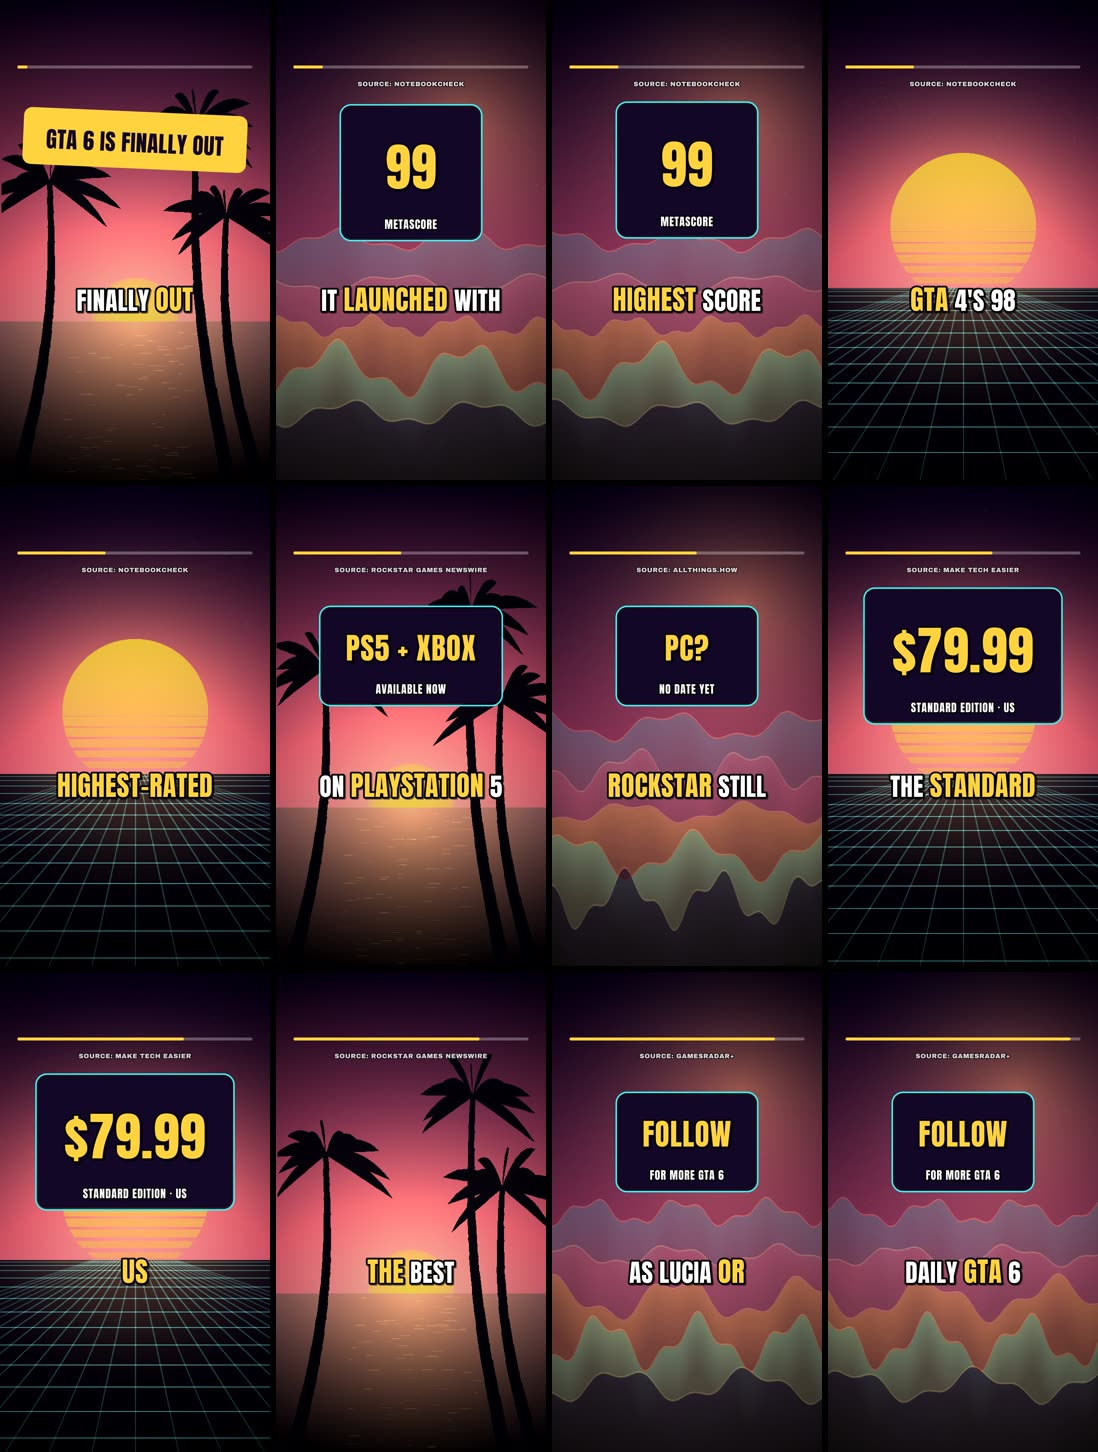
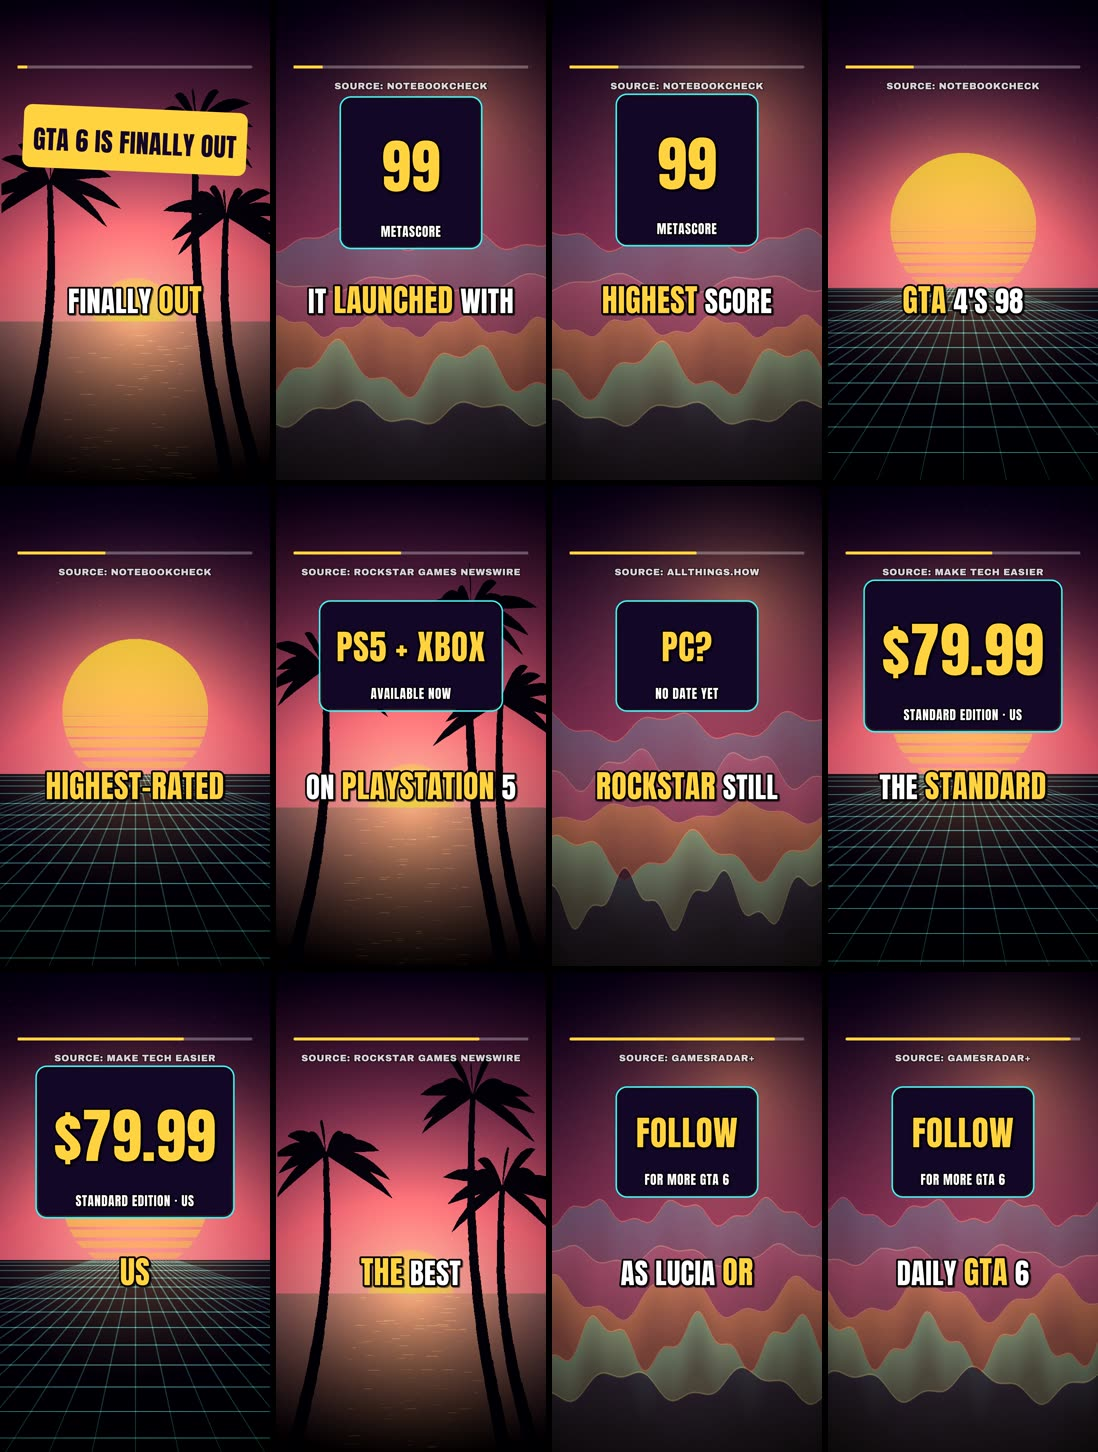
Size on-screen text with libass' real font metrics
libass scales text by the OS/2 win ascent/descent, not the hhea metrics PIL
reports, so some fonts (e.g. Bangers) rendered much smaller than intended.
Read the metrics from the font tables instead; a regression test now renders
each font through FFmpeg/libass and checks the capital height (98 ± 3 px).

Claude-Session: https://claude.ai/code/session_011Fs7o5q5jBuiNW7XePWNeT

diff --git a/src/gta6shorts/styles.py b/src/gta6shorts/styles.py
@@ -69,25 +69,49 @@ def _pil_font(path: str, size: int = 100):
     return ImageFont.truetype(path, size)
 
 
-def text_width(fonts_dir: Path, family: str, text: str, ass_size: float) -> float:
-    """Approximate rendered width in pixels of ``text`` at ASS font size ``ass_size``.
+@lru_cache(maxsize=32)
+def font_units(path: str) -> tuple[int, int]:
+    """(unitsPerEm, libass line height in font units).
 
-    libass scales fonts so that (ascent + descent) equals the ASS size, so we
-    measure with PIL at 100 px and rescale by the font's line height.
+    libass sizes text so that usWinAscent + usWinDescent (OS/2 table) equals the
+    ASS font size, which can differ a lot from the metrics PIL reports. We read
+    those values straight from the TrueType tables.
     """
-    font = _pil_font(str(font_path(fonts_dir, family)))
-    ascent, descent = font.getmetrics()
-    return font.getlength(text) * ass_size / max(1, ascent + descent)
+    import struct
+
+    data = Path(path).read_bytes()
+    count = struct.unpack(">H", data[4:6])[0]
+    tables = {}
+    for i in range(count):
+        tag, _checksum, offset, _length = struct.unpack(">4sIII", data[12 + 16 * i: 28 + 16 * i])
+        tables[tag.decode("latin-1")] = offset
+    head = tables["head"]
+    upm = struct.unpack(">H", data[head + 18: head + 20])[0]
+    if "OS/2" in tables:
+        os2 = tables["OS/2"]
+        win_ascent, win_descent = struct.unpack(">HH", data[os2 + 74: os2 + 78])
+        if win_ascent + win_descent:
+            return upm, win_ascent + win_descent
+    ascent, descent = _pil_font(path, upm).getmetrics()
+    return upm, ascent + descent
+
+
+def text_width(fonts_dir: Path, family: str, text: str, ass_size: float) -> float:
+    """Rendered width in pixels of ``text`` at ASS font size ``ass_size`` (libass scaling)."""
+    path = str(font_path(fonts_dir, family))
+    upm, line_units = font_units(path)
+    width_units = _pil_font(path, upm).getlength(text)  # at size=upm, 1 px == 1 font unit
+    return width_units * ass_size / max(1, line_units)
 
 
 @lru_cache(maxsize=64)
 def ass_size_for_cap(fonts_dir: Path, family: str, cap_px: float) -> int:
     """ASS font size that gives capital letters a height of ``cap_px`` pixels."""
-    font = _pil_font(str(font_path(fonts_dir, family)))
-    ascent, descent = font.getmetrics()
-    left, top, right, bottom = font.getbbox("H")
-    cap100 = max(1, bottom - top)  # cap height at em=100 px
-    return int(round(cap_px * (ascent + descent) / cap100))
+    path = str(font_path(fonts_dir, family))
+    upm, line_units = font_units(path)
+    left, top, right, bottom = _pil_font(path, upm).getbbox("H")
+    cap_units = max(1, bottom - top)
+    return int(round(cap_px * line_units / cap_units))
 
 
 @lru_cache(maxsize=256)

diff --git a/tests/test_media.py b/tests/test_media.py
@@ -143,3 +143,29 @@ def test_music_library_requires_licence(tmp_path):
         "  - {file: missing.mp3, title: Gone, artist: C, license: CC0, source_url: 'https://y'}\n")
     tracks = load_library(tmp_path / "licenses.yaml")
     assert [t["title"] for t in tracks] == ["Song"]
+
+
+@pytest.mark.skipif(not __import__("shutil").which("ffmpeg"), reason="ffmpeg not installed")
+@pytest.mark.parametrize("family", ["Anton", "Archivo Black", "Bebas Neue", "Luckiest Guy", "Bangers"])
+def test_libass_renders_requested_cap_height(cfg, tmp_path, family):
+    """Every font must render capitals at the size we ask for (libass uses OS/2 win metrics)."""
+    import subprocess
+
+    from PIL import Image
+
+    from gta6shorts.styles import ass_size_for_cap
+
+    size = ass_size_for_cap(cfg.fonts_dir, family, 98)
+    (tmp_path / "t.ass").write_text(
+        "[Script Info]\nPlayResX: 1080\nPlayResY: 1920\n[V4+ Styles]\n"
+        "Format: Name, Fontname, Fontsize, PrimaryColour, SecondaryColour, OutlineColour, BackColour, Bold, Italic, "
+        "Underline, StrikeOut, ScaleX, ScaleY, Spacing, Angle, BorderStyle, Outline, Shadow, Alignment, MarginL, "
+        "MarginR, MarginV, Encoding\n"
+        f"Style: T,{family},{size},&H00FFFFFF,&H00FFFFFF,&H00000000,&H00000000,0,0,0,0,100,100,0,0,1,0,0,5,0,0,0,1\n"
+        "[Events]\nFormat: Layer, Start, End, Style, Name, MarginL, MarginR, MarginV, Effect, Text\n"
+        "Dialogue: 0,0:00:00.00,0:00:01.00,T,,0,0,0,,{\\pos(540,960)}HHHH\n")
+    png = tmp_path / "f.png"
+    subprocess.run(["ffmpeg", "-y", "-loglevel", "error", "-f", "lavfi", "-i", "color=c=black:s=1080x1920:d=1",
+                    "-vf", f"ass={tmp_path / 't.ass'}:fontsdir={cfg.fonts_dir}", "-frames:v", "1", str(png)], check=True)
+    ys = np.nonzero(np.asarray(Image.open(png).convert("L")) > 128)[0]
+    assert abs((ys.max() - ys.min() + 1) - 98) <= 3

diff --git a/README.md b/README.md
@@ -61,7 +61,7 @@ Details: [docs/ARCHITECTURE.md](docs/ARCHITECTURE.md)
 | `content/facts.yaml` | verified facts with sources — the only source of claims |
 | `content/scripts/` | one YAML script per video |
 | `src/gta6shorts/` | the pipeline (Python) |
-| `tests/` | 82 automated tests |
+| `tests/` | 87 automated tests |
 | `.github/workflows/` | CI, produce, publish, stats & dashboard |
 | `data/` | video registry, statistics, usage counters (written by the workflows) |
 | `reports/daily/` | daily reports |

diff --git a/docs/ROADMAP.md b/docs/ROADMAP.md
@@ -19,7 +19,7 @@ Legend: ✅ done and tested · 🧪 built, tested with mocks only (needs your ac
 - 🧪 TikTok inbox/direct client
 - ✅ Statistics model, daily report, mobile-friendly dashboard (demo data)
 - ✅ GitHub Actions: CI (+ real cloud render), produce, publish, stats
-- ✅ 82 automated tests
+- ✅ 87 automated tests
 
 ## Stage 2 — Testing ⏸
 
